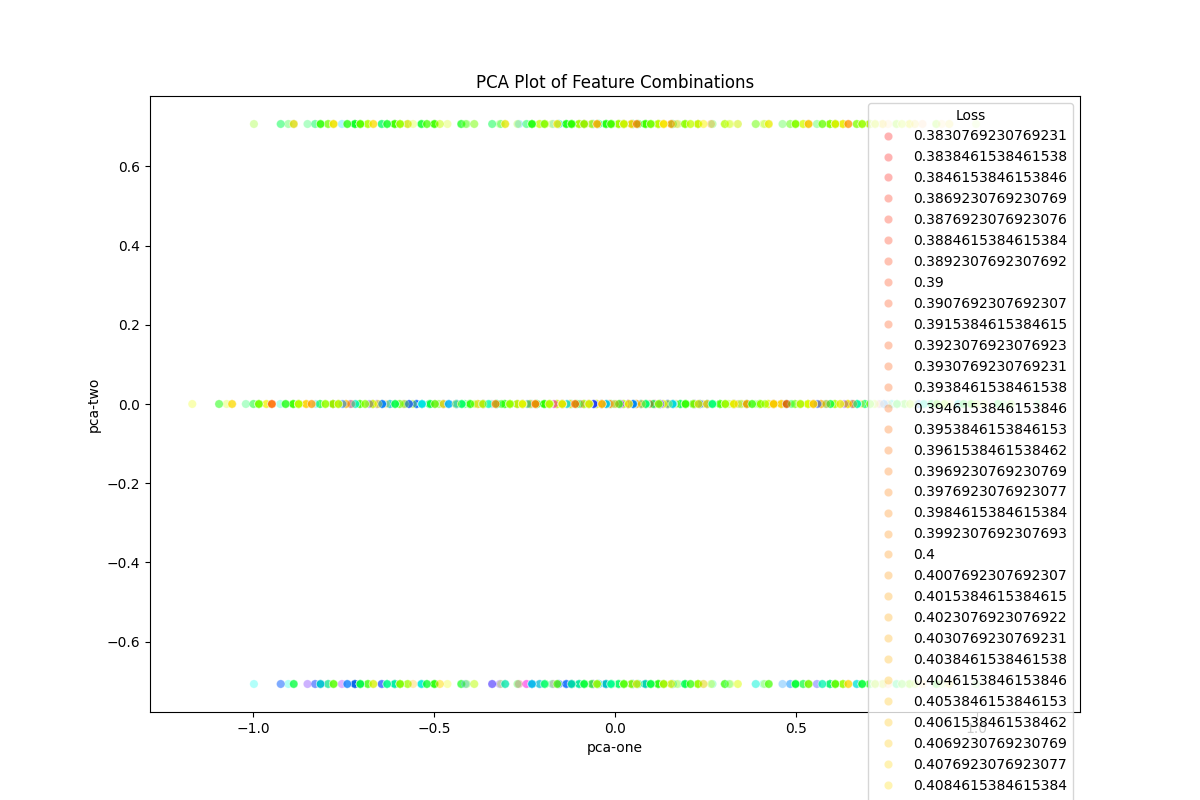
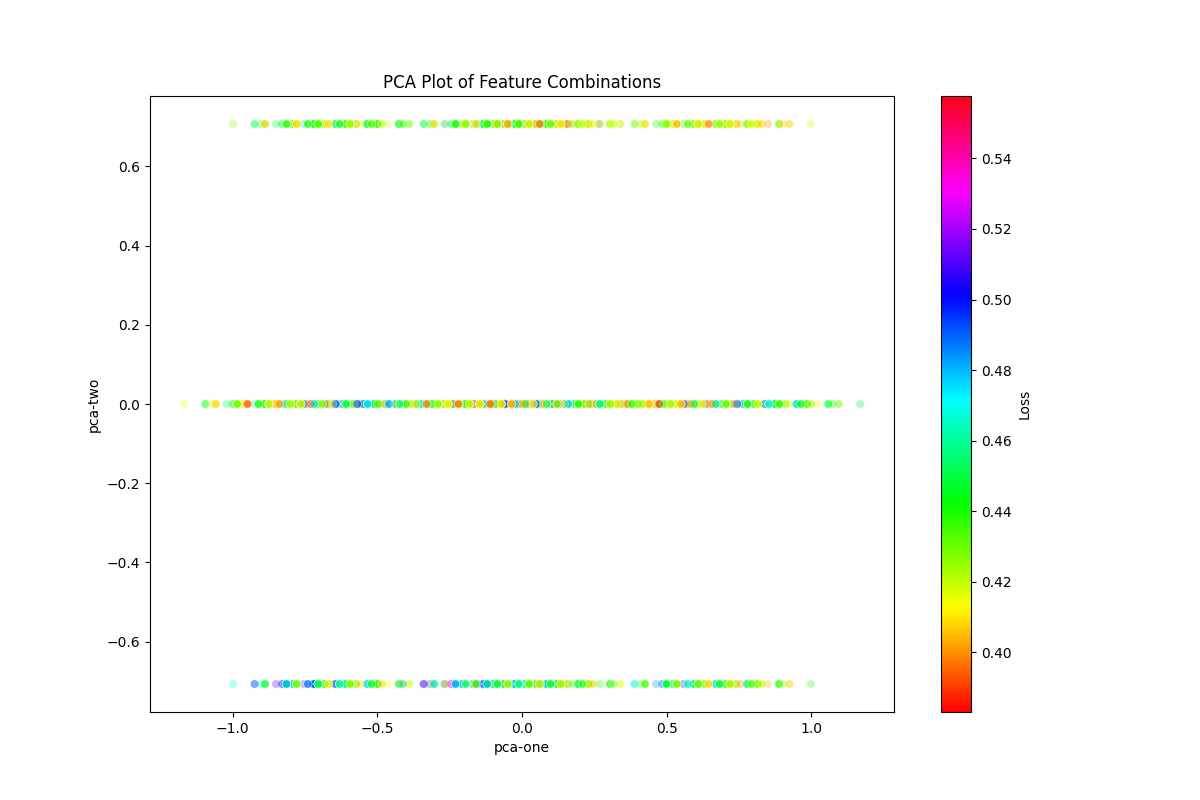
Enhance visualization module with Pareto efficiency and improved plots
- Added function to identify Pareto-efficient points.
- Updated feature count vs loss plot to highlight Pareto front.
- Improved scatter, violin, PCA, and t-SNE plots with colorbars for loss.
- Removed unused parallel coordinates and heatmap plot functions.
- Organized output directories for visualizations.

diff --git a/XGB-Feature-Selection/visualization.py b/XGB-Feature-Selection/visualization.py
@@ -11,43 +11,67 @@ breast_cancer_df = pd.read_csv(paths[0])
 titanic_df = pd.read_csv(paths[1])
 wine_quality_df = pd.read_csv(paths[2])
 
+import matplotlib.pyplot as plt
+import seaborn as sns
+import pandas as pd
+import os
+
+def is_pareto_efficient(costs):
+    """
+    Find the Pareto-efficient points.
+
+    Parameters:
+    - costs: ndarray of shape (n_points, n_costs)
+
+    Returns:
+    - A boolean array indicating whether each point is Pareto efficient.
+    """
+    is_efficient = [True] * len(costs)
+    for i, c in enumerate(costs):
+        if is_efficient[i]:
+            is_efficient[i] = not any(
+                (all(c2 <= c) and any(c2 < c)) for j, c2 in enumerate(costs) if j != i and is_efficient[j]
+            )
+    return is_efficient
+
 def plot_feature_count_loss(df, title):
-    df['selected_features'] = df[df.columns[:-1]].sum(axis=1)
+    """
+    Plots number of selected features vs loss and highlights Pareto front.
 
+    Parameters:
+    - df: DataFrame with only binary feature selection columns + 'Loss' column.
+    - title: String for saving and titling the plot.
+    """
+    if 'Loss' not in df.columns:
+        raise ValueError("DataFrame must contain a 'Loss' column.")
 
-    # Create a scatter plot: x-axis is the number of selected features, y-axis is the Loss value.
+    df = df.copy()
+    df['selected_features'] = df.drop(columns=['Loss']).sum(axis=1)
+
+    costs = df[['selected_features', 'Loss']].values
+    pareto_mask = is_pareto_efficient(costs)
+    df['pareto'] = pareto_mask
+
     plt.figure(figsize=(12, 8))
-    plt.scatter(df['selected_features'], df['Loss'], s=100, color='tab:blue', edgecolor='k')
-    plt.title("Loss vs. Number of Selected Features")
-    plt.xlabel("Number of Selected Features")
-    plt.ylabel("Loss")
-    plt.grid(True)
-    plt.savefig(f"visualizations/fcl/{title}_loss_vs_feature_count.png")
+    sns.scatterplot(data=df, x='selected_features', y='Loss', hue='pareto', palette={True: 'red', False: 'blue'})
+    plt.title('Number of Selected Features vs Loss')
+    plt.xlabel('Number of Selected Features')
+    plt.ylabel('Loss')
+
+    os.makedirs("visualizations/scatter", exist_ok=True)
+    plt.savefig(f"visualizations/scatter/{title}_scatter_plot.png")
+    plt.close()
+
 
 def violin_plot(df, title):
+    df = df.copy()
+    df['selected_features'] = df.drop(columns=['Loss']).sum(axis=1)
     plt.figure(figsize=(12,8))
     sns.boxplot(x='selected_features', y='Loss', data=df)
     plt.title('Distribution of Loss by Number of Selected Features')
     plt.xlabel('Number of Selected Features')
     plt.ylabel('Loss')
     plt.savefig(f"visualizations/violin/{title}_violin_plot.png")
-
-def parallel_coordinates_plot(df, title):
-    df['loss_bin'] = pd.qcut(df['Loss'], q=4, labels=False)
-    plt.figure(figsize=(12,8))
-    parallel_coordinates(df.drop('Loss', axis=1), 'loss_bin', colormap=plt.get_cmap("Set2"))
-    plt.title('Parallel Coordinates Plot of Feature Combinations')
-    plt.xlabel('Features')
-    plt.ylabel('Feature Value')
-    plt.savefig(f"visualizations/parallel/{title}_parallel_coordinates.png")
-
-def heatmap_plot(df, title):
-    plt.figure(figsize=(12, 8))
-    sns.heatmap(df[df.columns[:-2]], cmap="YlGnBu", cbar=False, annot=True, fmt=".0f")
-    plt.title("Heatmap of Feature Combinations")
-    plt.xlabel("Features")
-    plt.ylabel("Solution Index")
-    plt.savefig(f"visualizations/heat_map/{title}_heatmap.png")
 
 def matrix_plot(df, title):
     sns.pairplot(df, vars=df.columns[:-1])
@@ -60,16 +84,24 @@ def pca_2d_plot(df, title):
     df['pca-two'] = pca_result[:, 1]
 
     plt.figure(figsize=(12, 8))
-    sns.scatterplot(
+    ax = sns.scatterplot(
         x="pca-one", y="pca-two",
         hue="Loss",
         palette=sns.color_palette("hsv", as_cmap=True),
         data=df,
-        legend="full",
+        legend=False,  # disable the discrete legend
         alpha=0.3
     )
+    # Create a ScalarMappable for the colorbar with same colormap and normalization
+    sm = plt.cm.ScalarMappable(cmap="hsv", norm=plt.Normalize(vmin=df["Loss"].min(), vmax=df["Loss"].max()))
+    sm.set_array([])  # Required for the colorbar to work
+    fig = plt.gcf()
+    fig.colorbar(sm, ax=ax, label="Loss")
+    
     plt.title("PCA Plot of Feature Combinations")
+    os.makedirs("visualizations/pca2d", exist_ok=True)
     plt.savefig(f"visualizations/pca2d/{title}_pca_plot.png")
+    plt.close()
 
 def tsne_2d_plot(df, title):
     tsne = TSNE(n_components=2)
@@ -78,17 +110,23 @@ def tsne_2d_plot(df, title):
     df['tsne-two'] = tsne_result[:, 1]
 
     plt.figure(figsize=(12, 8))
-    sns.scatterplot(
+    ax = sns.scatterplot(
         x="tsne-one", y="tsne-two",
         hue="Loss",
         palette=sns.color_palette("hsv", as_cmap=True),
         data=df,
-        legend="full",
+        legend=False,
         alpha=0.3
     )
+    sm = plt.cm.ScalarMappable(cmap="hsv", norm=plt.Normalize(vmin=df["Loss"].min(), vmax=df["Loss"].max()))
+    sm.set_array([])
+    fig = plt.gcf()
+    fig.colorbar(sm, ax=ax, label="Loss")
+    
     plt.title("t-SNE Plot of Feature Combinations")
+    os.makedirs("visualizations/tsne2d", exist_ok=True)
     plt.savefig(f"visualizations/tsne2d/{title}_tsne_plot.png")
-
+    plt.close()
 
 def pca_3d_plot(df, title):
     pca = PCA(n_components=3)
@@ -99,12 +137,16 @@ def pca_3d_plot(df, title):
 
     fig = plt.figure(figsize=(12, 8))
     ax = fig.add_subplot(111, projection='3d')
-    ax.scatter(df['pca-one'], df['pca-two'], df['pca-three'], c=df['Loss'], cmap='hsv', alpha=0.3)
+    sc = ax.scatter(df['pca-one'], df['pca-two'], df['pca-three'], c=df['Loss'], cmap='hsv', alpha=0.3)
+    fig.colorbar(sc, ax=ax, label="Loss")
+    
     ax.set_xlabel('PCA One')
     ax.set_ylabel('PCA Two')
     ax.set_zlabel('PCA Three')
     plt.title("PCA Plot of Feature Combinations")
+    os.makedirs("visualizations/pca3d", exist_ok=True)
     plt.savefig(f"visualizations/pca3d/{title}_pca_plot.png")
+    plt.close()
 
 def tsne_3d_plot(df, title):
     tsne = TSNE(n_components=3)
@@ -115,12 +157,17 @@ def tsne_3d_plot(df, title):
 
     fig = plt.figure(figsize=(12, 8))
     ax = fig.add_subplot(111, projection='3d')
-    ax.scatter(df['tsne-one'], df['tsne-two'], df['tsne-three'], c=df['Loss'], cmap='hsv', alpha=0.3)
+    sc = ax.scatter(df['tsne-one'], df['tsne-two'], df['tsne-three'], c=df['Loss'], cmap='hsv', alpha=0.3)
+    fig.colorbar(sc, ax=ax, label="Loss")
+    
     ax.set_xlabel('t-SNE One')
     ax.set_ylabel('t-SNE Two')
     ax.set_zlabel('t-SNE Three')
     plt.title("t-SNE Plot of Feature Combinations")
+    os.makedirs("visualizations/tsne3d", exist_ok=True)
     plt.savefig(f"visualizations/tsne3d/{title}_tsne_plot.png")
+    plt.close()
+
 
 
 def main():
@@ -132,15 +179,6 @@ def main():
     violin_plot(breast_cancer_df, "Breast Cancer Wisconsin Original")
     violin_plot(titanic_df, "Titanic")
     violin_plot(wine_quality_df, "Wine Quality Combined")
-
-    parallel_coordinates_plot(breast_cancer_df, "Breast Cancer Wisconsin Original")
-    parallel_coordinates_plot(titanic_df, "Titanic")
-    parallel_coordinates_plot(wine_quality_df, "Wine Quality Combined")
-
-
-    heatmap_plot(breast_cancer_df, "Breast Cancer Wisconsin Original")
-    heatmap_plot(titanic_df, "Titanic")
-    heatmap_plot(wine_quality_df, "Wine Quality Combined")
 
     matrix_plot(breast_cancer_df, "Breast Cancer Wisconsin Original")
     matrix_plot(titanic_df, "Titanic")
@@ -162,7 +200,6 @@ def main():
     tsne_3d_plot(breast_cancer_df, "Breast Cancer Wisconsin Original")
     tsne_3d_plot(titanic_df, "Titanic")
     tsne_3d_plot(wine_quality_df, "Wine Quality Combined")
-
 
 
 
